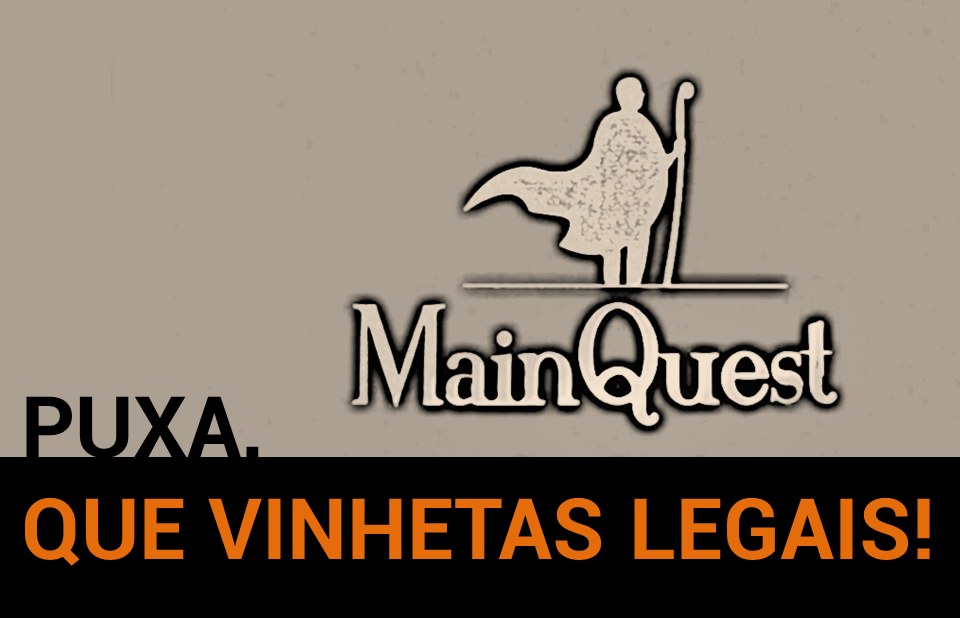
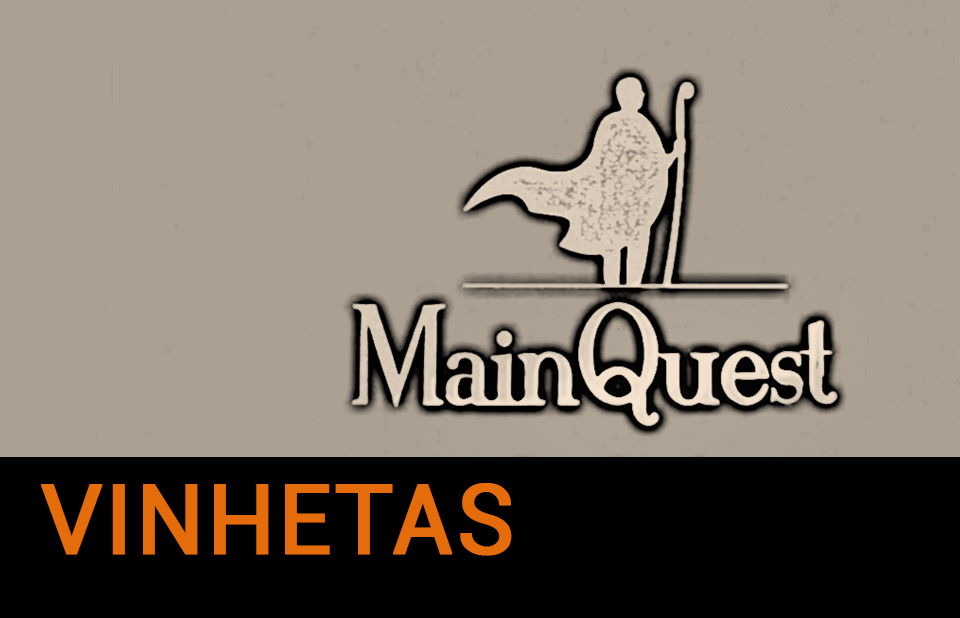
sobre e portThumbs
alteração do texto do sobre
novas imagens (tb temporárias) dos thumbs no port

Changed region(s): [[0.0, 0.7686, 0.625, 0.9223], [0.6562, 0.7994, 0.9688, 0.9223], [0.0, 0.6149, 0.2812, 0.7379]]

diff --git a/_includes/sobre.html b/_includes/sobre.html
@@ -2,26 +2,19 @@
   <div class="sobre-wrap">
     <div class='sobre-container'>
       <h3 id="sobre">Sobre</h3>
-      <p>Olá! Sejam muito bem vindos!</p>
-      <p>Aceitam um cafezinho? Água? Chá? </p>
-      <p>Se perguntando que tipo de gente oferece café no texto de um site?</p>
+      <p>Olá! Aceitam um cafezinho? Água? Chá?</p>
+      <p>Se perguntando quem oferece isso em um site?</p>
       <br>
-      <p>Estávamos ansiosamente esperando sua visita.</p>
-      <p>Sim, nós sabíamos que vocês iriam nos visitar um dia. Por isso, permanecemos firmes e fortes, devaneando com o dia que vocês viriam nos visitar. E agora que estão aqui, sentimos a esperança renovada. Tudo vai ficar bem. Hoje é um ótimo dia.</p>
-      <br>
-      <p>Então sejam bem vindos, damas e cavalheiros, sejam muito bem vindo ao site da <strong id="mq">MainQuest Produções</strong>!</p>
-        <span class="lermais">ler mais</span>
+      <p>Pois estávamos ansiosamente esperando sua visita.</p>
+      <p>Sejam bem vindos, damas e cavalheiros, sejam muito bem vindos ao site da <strong id="mq">MainQuest</strong>!</p>
+      <p>Podemos dizer que, basicamente, somos uma empresa que trabalha com <strong>soluções audiovisuais</strong> diversificadas. Mas vamos desenvolver um pouco mais:</p>
+      <span class="lermais">ler mais</span>
       <div class="sobre-hidden">
         <div class="sobre-text">
-          <p>...mas o que é a MainQuest Produções?</p>
-          <p>Somos uma empresa que trabalha com <strong>soluções audiovisuais</strong>!</p>
-          <br>
-          <p>Nossa equipe é formada por profissionais do design, publicidade e propaganda, computação gráfica e audiovisual. E usando isso ao nosso (e seu) favor, somos aptos a desenvolver projetos distintos podendo também mesclar todas essas áreas.</p>
-          <br>
-          <p>Como assim?</p>
-          <p><strong>Filmamos, fotografamos, fazemos vinhetas, animações em 2D ou 3D</strong>...tudo com uma arte bem bonita! Também transformamos uma sequência de fotos em um vídeo animado, ou animamos fotografias, ou animamos desenhos, ou criamos imagens loucas para transformar em um vídeo psicodélico, ou filmamos imagens reais e as mesclamos com imagens em 2D, (essas imagens também podem ser animadas, ou em 3D, ou o que você quiser) ou... Já falamos que fazemos tudo isso com uma arte bem bonita?</p>
-          <br>
-          <p>Aproveitem e deem uma olhada no nosso portfólio (que está em constante fase de crescimento) ou já entrem em contato conosco, ou os dois... Vamos nos conhecer!</p>
+          <p>Nossa  equipe  é  formada  por  profissionais  do  design,  publicidade  e  propaganda, computação gráfica e produção audiovisual. E usando isso ao nosso (e seu) favor, somos aptos a desenvolver projetos distintos, podendo também mesclar todas essas áreas.</p>
+          <p>Trabalhos com arte estão ligados à diferentes sentimentos e sensações, por isso não podemos  nos  enquadrar  em  algum  padrão  exato  e  fechado.  Da  mesma  forma,  a criatividade sempre exige uma cabeça aberta, livre para aceitar quaisquer pensamentos e ideias que possam surgir, para depois serem trabalhadas.</p>
+          <p>E é justamente por isso, meus caros, que afirmamos trabalhar com <strong>soluções audiovisuais</strong>.   Animações,   filmes,   documentários,   clipes,   stopmotions,   vídeos institucionais,... A <strong id="mq">MainQuest</strong> existe desde 2014 e sempre esteve aberta para novas (ou tradicionais) possibilidades dentro do audiovisual. Tem uma ideia ou precisa de alguma?</p>
+          <a href="#contato" id="bold">Vamos conversar!</a>
           <span class="lermenos">ler menos</span>
         </div>
       </div>

diff --git a/assets/css/_sass/3-sections/_sobre.sass b/assets/css/_sass/3-sections/_sobre.sass
@@ -11,6 +11,9 @@
   #mq
     color: $alt1-color
 
+  #bold
+    font-weight: bold
+
   .lermais, .lermenos
     display: inline-block
     float: right

diff --git a/assets/css/_sass/2-base/_base.sass b/assets/css/_sass/2-base/_base.sass
@@ -86,7 +86,7 @@ p
 
 a
   text-decoration: none
-  color: $alt2-color
+  color: $text-color
   outline: 0
 a:hover
   color: $alt1-color
